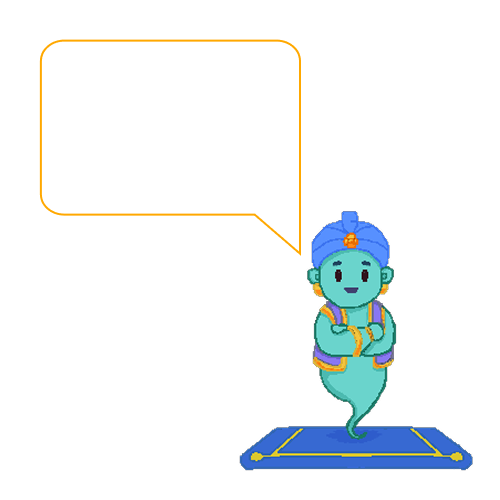
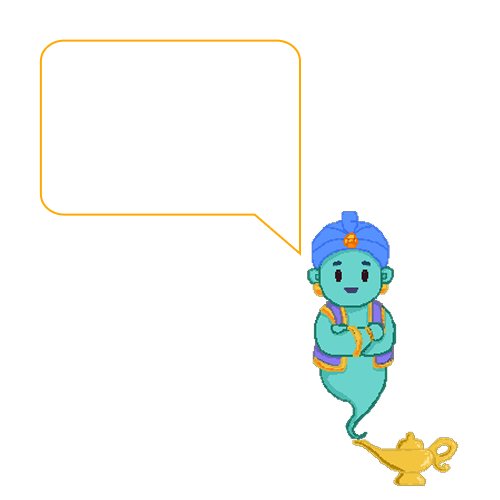
Added the rewards image and genie to rewards page, cleaned up the styling of genie text on game page

Changed region(s): [[0.48, 0.84, 0.96, 0.99], [0.66, 0.6, 0.72, 0.63]]

diff --git a/frontend/src/pages/GamePage.css b/frontend/src/pages/GamePage.css
@@ -82,7 +82,7 @@
   color: #01B4BC;
   text-align: center;
   font-family: "Lilita One";
-  font-size: 20px;
+  font-size: 18px;
   font-style: normal;
   font-weight: 300;
   line-height: 25px; /* 100% */
@@ -95,7 +95,7 @@
     font-size: 16px;
     font-style: normal;
     font-weight: 700;
-    line-height: 25px;
+    line-height: 20px;
     color: #FFA800; /* + Dark gray for contrast */
     margin: 5px 0; /* + Spacing between definition and example */
     text-align: left; /* + Left-align for readability */
@@ -106,19 +106,19 @@
   color: #01B4BC;
   text-align: center;
   font-family: "Lilita One";
-  font-size: 18px;
+  font-size: 17px;
   font-style: normal;
   font-weight: 400;
-  line-height: 40px;
+  line-height: 35px;
 }
 
 /* + New styles for example */
 .genie-example {
   font-family: "Monda"; /* + Use a sans-serif font for clarity */
   font-size: 16px;
-  font-style: normal;
+  font-style: bold;
   font-weight: 700;
-  line-height: 25px;
+  line-height: 20px;
   color: #FFA800; /* + Dark gray for contrast */
   margin: 5px 0; /* + Spacing between definition and example */
   text-align: left; /* + Left-align for readability */
@@ -129,10 +129,10 @@
   color: #01B4BC;
   text-align: center;
   font-family: "Lilita One";
-  font-size: 18px;
+  font-size: 17px;
   font-style: normal;
   font-weight: 400;
-  line-height: 40px;
+  line-height: 35px;
 }
 
 /* + New styles for error message */
@@ -148,8 +148,18 @@
   left: 90px;
   border: none; /* + No border */
   cursor: pointer; /* + Pointer cursor on hover */
-  width: 143px;
+  width: 160px;
   height: 34px;
+}
 
+.next-button img {
+  width: 100%;
+  height: auto;
+  display: block; /* + Ensures the image is displayed as a block element */
+}
+
+.next-button:hover img {
+  transform: scale(1.05); /* + Slightly enlarge on hover */
+  transition: transform 0.2s ease-in-out; /* + Smooth transition */
 }
 

diff --git a/frontend/src/pages/RewardsPage.css b/frontend/src/pages/RewardsPage.css
@@ -3,15 +3,81 @@
   flex-direction: column;
   align-items: center;
   justify-content: center;
+  width: 100%;
   height: 100vh; /* Full viewport height */
 }
 
-.rewards-page h1 {
-    color: #fff;
-    font-family: "Monda", sans-serif;
-    font-size: 48px;
-    font-weight: 600;
-    text-align: center;
-    margin-bottom: 20px;
+.rewards-header {
+  margin-bottom: 400px; 
 }
+
+.genie-container2 {
+    position: absolute;
+    right: 10px;
+    bottom: 230px;
+}
+
+.genie-image2 {
+  width: 400px;
+  height: auto;
+  display: block;
+}
+
+.rewards-component {
+  display: flex;
+  flex-direction: column;
+  align-items: center;
+  justify-content: center;
+  padding-top: 230px;
+  width: 100%;
+}
+
+.rewards-component img {
+  width: 80%;
+  height: auto;
+}
+
+.all-buttons {
+  display: flex;
+  flex-direction: row;
+  align-items: space-between;
+  justify-content: center;
+  width: 100%;
+}
+
+.home-button {
+  position: absolute;
+  width: 55px;
+  height: 57px;
+  cursor: pointer;
+  right: 524px;
+  top: 570px;
+  border: none;
+  background-color: transparent;
+}
+
+.flip-button {
+  position: absolute;
+  width: 55px;
+  height: 58px;
+  cursor: pointer;
+  right: 608px;
+  top: 570px;
+  border: none;
+  background-color: transparent;
+}
+
+
+
+.star-button {
+  position: absolute;
+  width: 55px;
+  height: 57px;
+  cursor: pointer;
+  right: 692px;
+  top: 569px;
+  border: none;
+  background-color: transparent;
+}
+
 

diff --git a/frontend/src/pages/RewardsPage.jsx b/frontend/src/pages/RewardsPage.jsx
@@ -1,4 +1,6 @@
 import { useNavigate } from "react-router-dom";
+import GoBackImage from '../components/GoBackImage.jsx';
+import SettingsImage from '../components/SettingsImage.jsx';
 import './RewardsPage.css';
 
 function RewardsPage() {
@@ -6,9 +8,21 @@ function RewardsPage() {
 
   return (
     <div className="rewards-page">
-      <h1>Rewards Page</h1>
-      <p>Congratulations on completing the game!</p>
-      <button onClick={() => navigate('/game')}>Go Back to Game</button>
+      <header classname='rewards-page-header'>
+        <GoBackImage onClick={() => navigate('/game')} />
+        <SettingsImage />
+      </header>
+      <div className="rewards-container">
+        <div className="genie-container2">
+          <img src="/genie.png" alt="genie-image" className='genie-image2'/>
+        </div>
+        <div className="rewards-component">
+          <img src="/rewards.png" alt="rewards" className="rewards-image" />
+        </div>
+        <button className="home-button"></button>
+        <button className="star-button"></button>
+        <button className="flip-button"></button>
+      </div>
     </div>
   );
 }

diff --git a/frontend/src/pages/SelectLevelPage.css b/frontend/src/pages/SelectLevelPage.css
@@ -24,6 +24,11 @@
   cursor: pointer;
 }
 
+.go-back-button img {
+  width: 100%; /* Adjust size as needed */
+  height: auto;
+}
+
 
 .settings-button {
   position: absolute;
@@ -33,6 +38,11 @@
   border: none;
   padding: 0;
   cursor: pointer;
+}
+
+.settings-button img {
+  width: 100%; /* Adjust size as needed */
+  height: auto;
 }
  
 
@@ -96,4 +106,5 @@
 .beginner:hover img, .intermediate:hover img, .advanced:hover img,
 .go-back-button:hover img, .settings-button:hover img {
   transform: scale(1.05); /* Slight scale-up on hover */
+  transition: transform 0.2s ease-in-out; /* Smooth transition */
 }

diff --git a/frontend/src/pages/GamePage.jsx b/frontend/src/pages/GamePage.jsx
@@ -77,7 +77,7 @@ function GamePage({ onKeyPress, keyStatuses, resetKeyStatuses, gameId, setGameId
               <p className="genie-definition"><strong>Definition:</strong> {definition || 'Loading'}</p>
               <p className="genie-example"><strong>Example:</strong> {example || 'Loading'}</p>
               <button className='next-button' onClick={() => {navigate('/rewards'); resetKeyStatuses();}}>
-                <img src="/next-button.png" alt="next" />
+                <img src="/next-button.png" alt="next" className='next-image'/>
               </button>
             </div>
           ) : (
